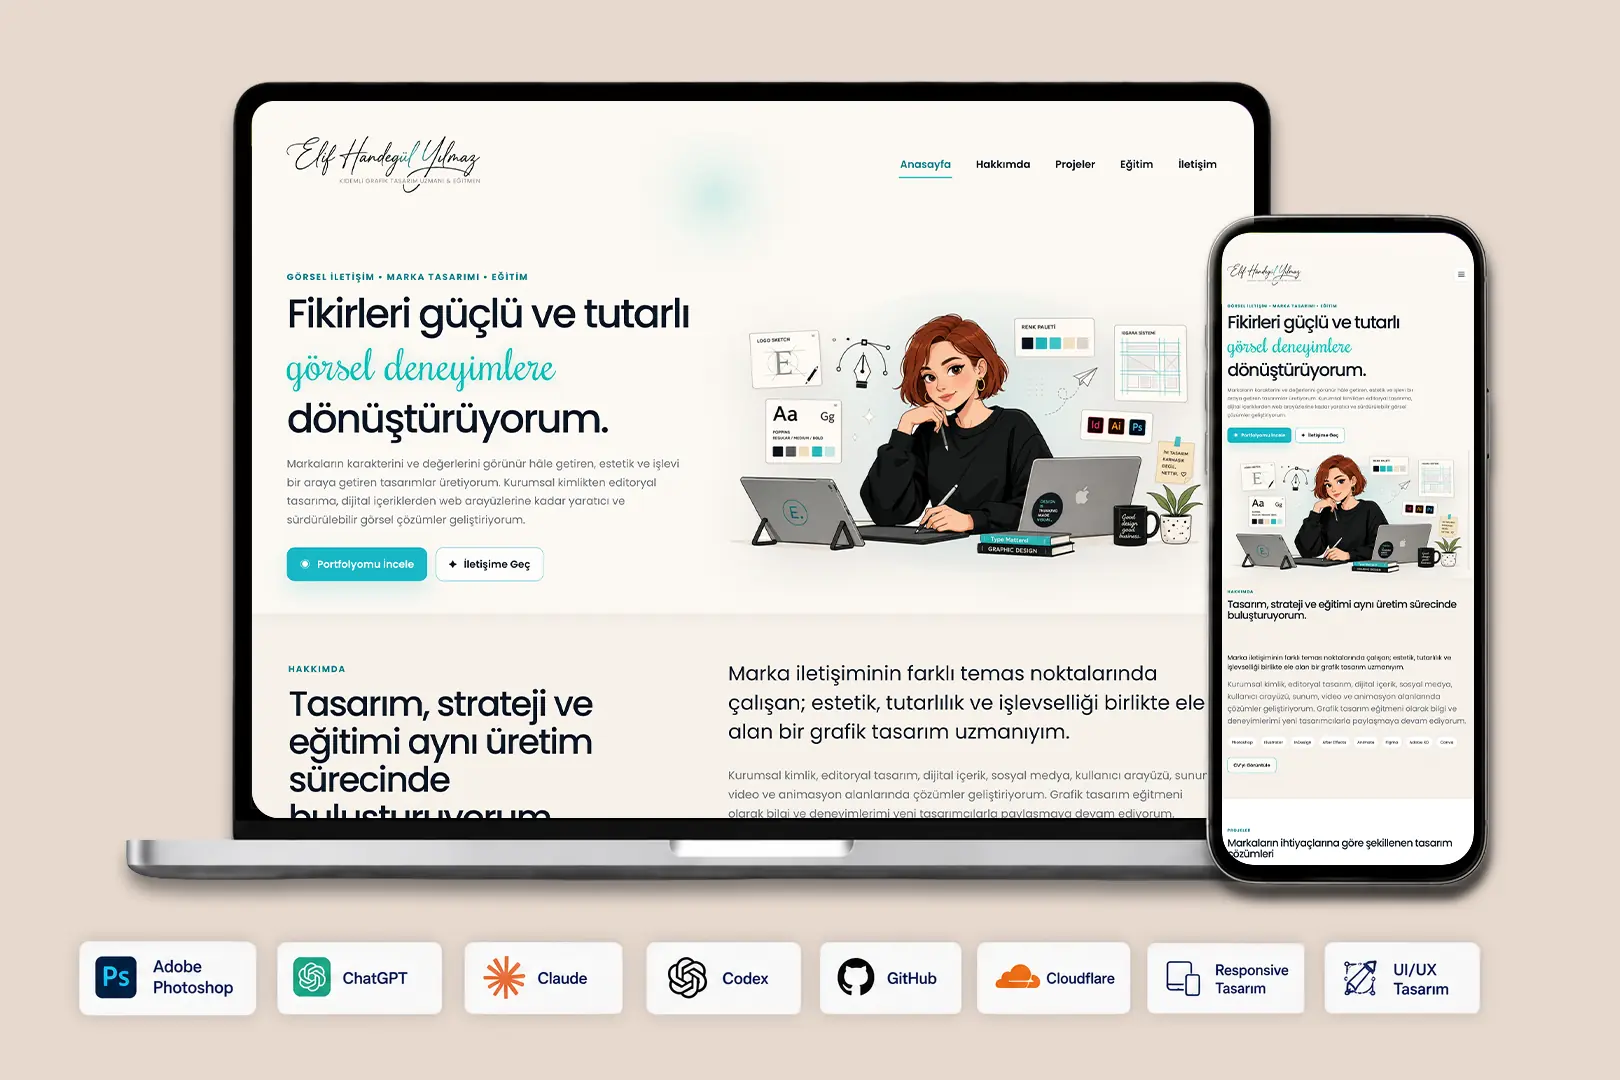
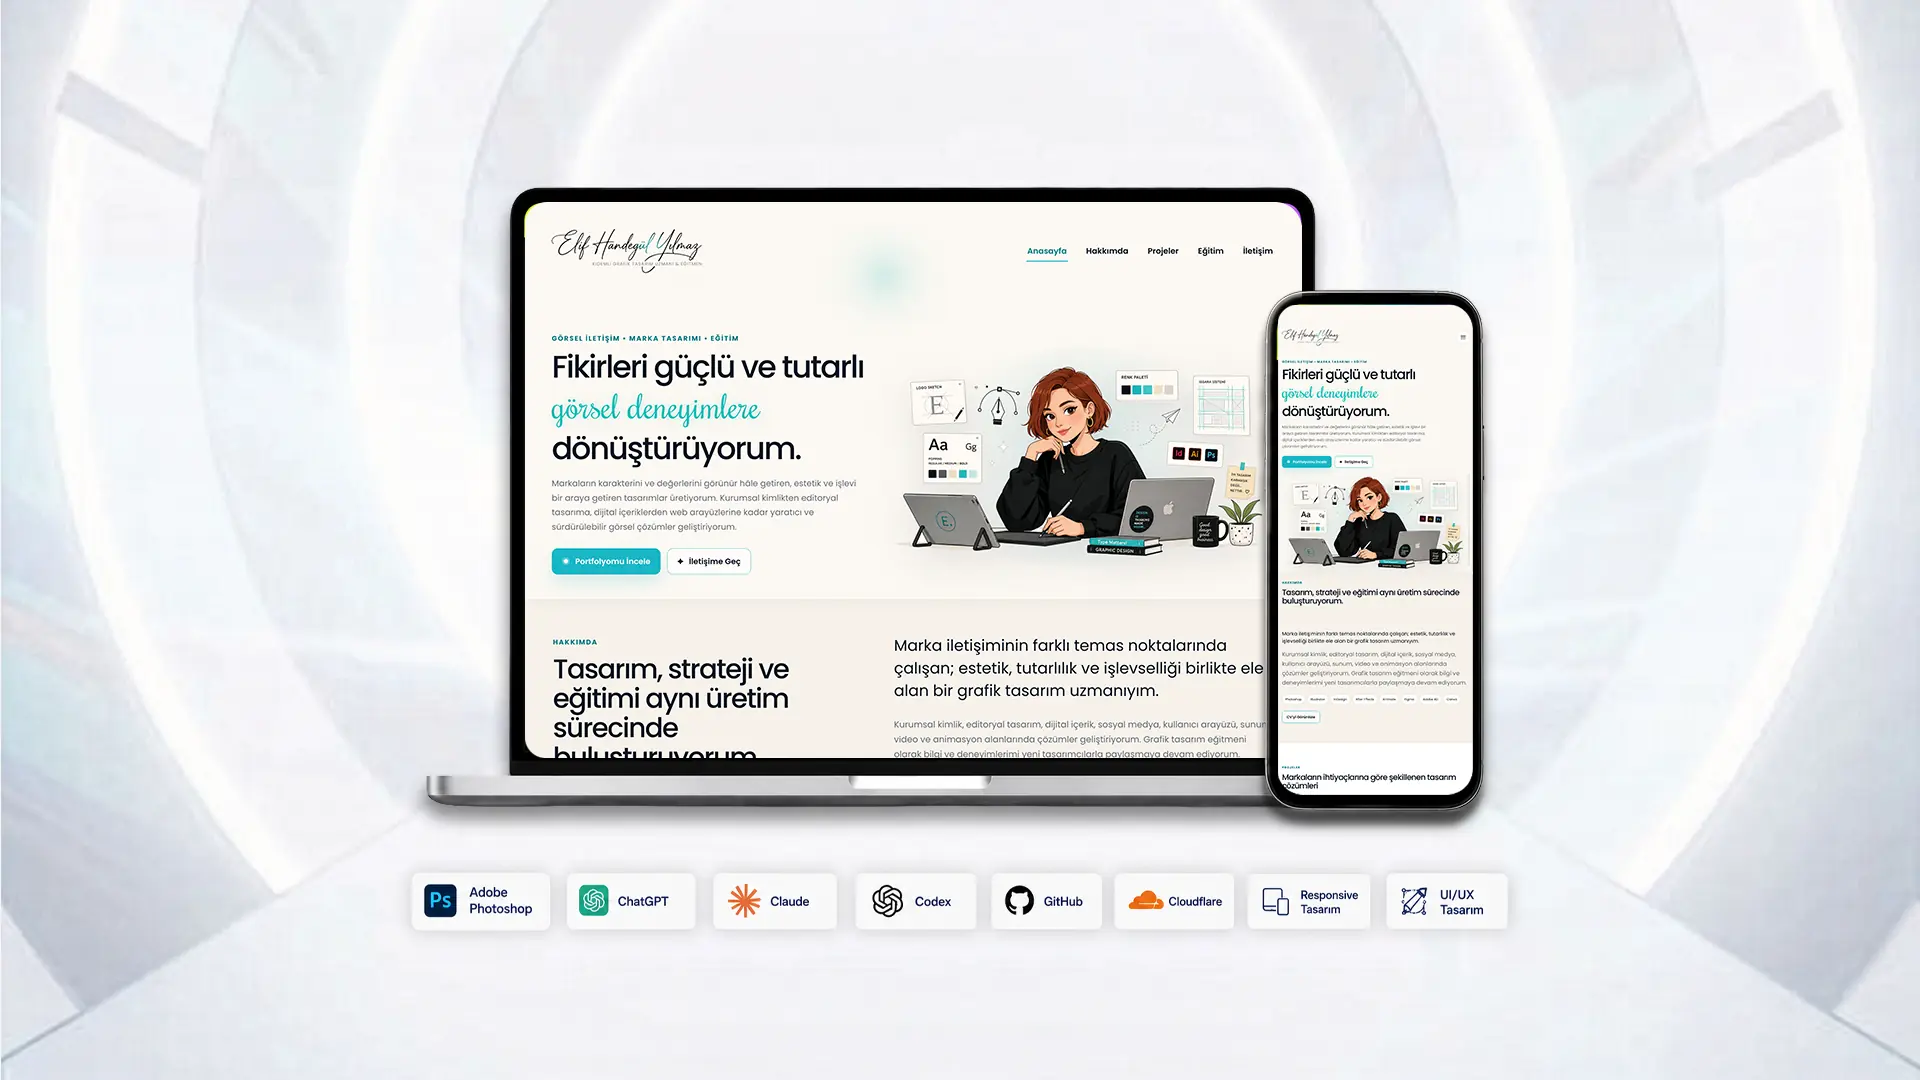
Web proje görsellerini 16:9 güncelle

diff --git a/elifhandeyilmaz-tam-site-paketi/assets/web-projects.js b/elifhandeyilmaz-tam-site-paketi/assets/web-projects.js
@@ -1,10 +1,10 @@
 (() => {
   const webProjects = [
-    { id:"forma-kutusu", title:"Forma Kutusu – Online Forma Satış Web Sitesi", type:"Web & Arayüz Tasarımı", description:"Forma Kutusu için, spor kulüpleri ve takımların forma modellerini inceleyebildiği, ürünleri kişiselleştirebildiği ve sipariş süreçlerini kolayca yönetebildiği modern bir e-ticaret web sitesi tasarladım. Koyu tema, canlı renk geçişleri ve güçlü tipografiyle markanın dinamik kimliğini yansıtan, masaüstü ve mobil cihazlarda yüksek performans sunan responsive bir kullanıcı deneyimi geliştirdim.", liveUrl:"https://www.formakutusu.com", roles:["UI/UX Tasarımı","Responsive Web Tasarımı","Görsel Tasarım Sistemi","İçerik Kurgusu ve Yazarlığı","Yapay Zekâ Destekli Web Geliştirme","Kod Geliştirme ve Optimizasyonu","GitHub Sürüm Yönetimi","Cloudflare Pages ile Yayınlama"], images:[{src:"assets/web-projects/formakutusu.webp",alt:"Forma Kutusu masaüstü ve mobil satış web sitesi sunumu"}] },
-    { id:"elif-handegul-yilmaz", title:"Elif Handegül Yılmaz – Kişisel Portfolyo ve Eğitim Web Sitesi", type:"Web & Arayüz Tasarımı", description:"Kişisel marka kimliğimi, grafik tasarım portfolyomu ve eğitim çalışmalarımı tek bir dijital platformda sunmak amacıyla bu web sitesini tasarlayıp geliştirdim. Görsel kimlikten kullanıcı deneyimine, karakter illüstrasyonlarından içerik yapısına kadar tüm tasarım dilini bütüncül bir yaklaşımla oluşturarak, masaüstü ve mobil cihazlarda tutarlı bir deneyim sunan responsive bir portfolyo platformu geliştirdim.", liveUrl:"https://www.elifhandeyilmaz.com", roles:["Kişisel Marka Kimliği Tasarımı","UI/UX Tasarımı","Responsive Web Tasarımı","Karakter ve Görsel Tasarımı","İçerik Stratejisi, Yazarlığı ve Düzenleme","Yapay Zekâ Destekli Web Geliştirme","Kod Geliştirme ve Optimizasyonu","GitHub Sürüm Yönetimi","Cloudflare Pages ile Yayınlama"], images:[{src:"assets/web-projects/elifhandeyilmazcom.webp",alt:"Elif Handegül Yılmaz kişisel portfolyo web sitesi masaüstü ve mobil sunumu"}] },
-    { id:"pilavyeri", title:"PilavYeri – Marka Kimliği ve Responsive Web Sitesi", type:"Web & Arayüz Tasarımı", description:"PilavYeri için logo tasarımından responsive web arayüzüne kadar bütüncül bir marka deneyimi oluşturdum. Sitenin görsel dili, masaüstü ve mobil uyarlamaları ile tüm metin içerikleri tarafımdan hazırlanarak WordPress üzerinde uygulandı.", liveUrl:"https://www.pilavyeri.com/", roles:["Logo ve Marka Kimliği Tasarımı","UI Tasarımı","WordPress Web Tasarımı","İçerik Yazarlığı"], images:[{src:"assets/web-projects/pilavyeri.webp",alt:"PilavYeri masaüstü ve mobil uyumlu web arayüzü sunumu"}] },
-    { id:"sigortaguru", title:"SigortaGuru – Sigorta Danışmanlığı Web Sitesi", type:"Web & Arayüz Tasarımı", description:"SigortaGuru için, sigorta hizmetlerinin kullanıcı dostu ve anlaşılır bir yapıda sunulduğu modern bir kurumsal web sitesi tasarladım. Responsive altyapısıyla masaüstü ve mobil cihazlarda tutarlı bir deneyim sunarken, teklif oluşturma süreçlerini kolaylaştıran kullanıcı odaklı sayfa kurgusu, sade arayüz ve güçlü yönlendirme alanlarıyla güven odaklı bir dijital platform geliştirdim.", liveUrl:"https://www.sigortaguru.com", roles:["Logo ve Marka Kimliği Tasarımı","UI/UX Tasarımı","Responsive Web Tasarımı","WordPress Geliştirme","Sayfa Kurgusu","İçerik Yazarlığı ve Düzenleme","Görsel Kompozisyon Tasarımı"], images:[{src:"assets/web-projects/sigortaguru.webp",alt:"SigortaGuru masaüstü ve mobil sigorta danışmanlığı web sitesi sunumu"}] },
-    { id:"baytekin-sigorta", title:"Baytekin Sigorta – Kurumsal Sigorta Web Sitesi", type:"Web & Arayüz Tasarımı", description:"Baytekin Sigorta için, sigorta ürünlerinin anlaşılır ve erişilebilir şekilde sunulduğu kurumsal bir web sitesi tasarladım. Responsive altyapısıyla masaüstü ve mobil cihazlarda tutarlı bir kullanıcı deneyimi sunarken, güven odaklı görsel dil, sade arayüz ve hızlı iletişim alanlarıyla kullanıcıların ihtiyaç duydukları hizmetlere kolayca ulaşabilecekleri modern bir dijital platform oluşturdum.", liveUrl:"https://www.baytekinsigorta.com.tr", roles:["Logo ve Marka Kimliği Tasarımı","UI/UX Tasarımı","Responsive Web Tasarımı","WordPress Geliştirme","Sayfa Kurgusu","İçerik Yazarlığı ve Düzenleme","Görsel Kompozisyon Tasarımı"], images:[{src:"assets/web-projects/baytekin-sigorta.webp",alt:"Baytekin Sigorta masaüstü ve mobil kurumsal web sitesi sunumu"}] }
+    { id:"forma-kutusu", title:"Forma Kutusu – Online Forma Satış Web Sitesi", type:"Web & Arayüz Tasarımı", description:"Forma Kutusu için, spor kulüpleri ve takımların forma modellerini inceleyebildiği, ürünleri kişiselleştirebildiği ve sipariş süreçlerini kolayca yönetebildiği modern bir e-ticaret web sitesi tasarladım. Koyu tema, canlı renk geçişleri ve güçlü tipografiyle markanın dinamik kimliğini yansıtan, masaüstü ve mobil cihazlarda yüksek performans sunan responsive bir kullanıcı deneyimi geliştirdim.", liveUrl:"https://www.formakutusu.com", roles:["UI/UX Tasarımı","Responsive Web Tasarımı","Görsel Tasarım Sistemi","İçerik Kurgusu ve Yazarlığı","Yapay Zekâ Destekli Web Geliştirme","Kod Geliştirme ve Optimizasyonu","GitHub Sürüm Yönetimi","Cloudflare Pages ile Yayınlama"], images:[{src:"assets/web-projects/formakutusu.webp?v=20260803-16x9-v1",alt:"Forma Kutusu masaüstü ve mobil satış web sitesi sunumu"}] },
+    { id:"elif-handegul-yilmaz", title:"Elif Handegül Yılmaz – Kişisel Portfolyo ve Eğitim Web Sitesi", type:"Web & Arayüz Tasarımı", description:"Kişisel marka kimliğimi, grafik tasarım portfolyomu ve eğitim çalışmalarımı tek bir dijital platformda sunmak amacıyla bu web sitesini tasarlayıp geliştirdim. Görsel kimlikten kullanıcı deneyimine, karakter illüstrasyonlarından içerik yapısına kadar tüm tasarım dilini bütüncül bir yaklaşımla oluşturarak, masaüstü ve mobil cihazlarda tutarlı bir deneyim sunan responsive bir portfolyo platformu geliştirdim.", liveUrl:"https://www.elifhandeyilmaz.com", roles:["Kişisel Marka Kimliği Tasarımı","UI/UX Tasarımı","Responsive Web Tasarımı","Karakter ve Görsel Tasarımı","İçerik Stratejisi, Yazarlığı ve Düzenleme","Yapay Zekâ Destekli Web Geliştirme","Kod Geliştirme ve Optimizasyonu","GitHub Sürüm Yönetimi","Cloudflare Pages ile Yayınlama"], images:[{src:"assets/web-projects/elifhandeyilmazcom.webp?v=20260803-16x9-v1",alt:"Elif Handegül Yılmaz kişisel portfolyo web sitesi masaüstü ve mobil sunumu"}] },
+    { id:"pilavyeri", title:"PilavYeri – Marka Kimliği ve Responsive Web Sitesi", type:"Web & Arayüz Tasarımı", description:"PilavYeri için logo tasarımından responsive web arayüzüne kadar bütüncül bir marka deneyimi oluşturdum. Sitenin görsel dili, masaüstü ve mobil uyarlamaları ile tüm metin içerikleri tarafımdan hazırlanarak WordPress üzerinde uygulandı.", liveUrl:"https://www.pilavyeri.com/", roles:["Logo ve Marka Kimliği Tasarımı","UI Tasarımı","WordPress Web Tasarımı","İçerik Yazarlığı"], images:[{src:"assets/web-projects/pilavyeri.webp?v=20260803-16x9-v1",alt:"PilavYeri masaüstü ve mobil uyumlu web arayüzü sunumu"}] },
+    { id:"sigortaguru", title:"SigortaGuru – Sigorta Danışmanlığı Web Sitesi", type:"Web & Arayüz Tasarımı", description:"SigortaGuru için, sigorta hizmetlerinin kullanıcı dostu ve anlaşılır bir yapıda sunulduğu modern bir kurumsal web sitesi tasarladım. Responsive altyapısıyla masaüstü ve mobil cihazlarda tutarlı bir deneyim sunarken, teklif oluşturma süreçlerini kolaylaştıran kullanıcı odaklı sayfa kurgusu, sade arayüz ve güçlü yönlendirme alanlarıyla güven odaklı bir dijital platform geliştirdim.", liveUrl:"https://www.sigortaguru.com", roles:["Logo ve Marka Kimliği Tasarımı","UI/UX Tasarımı","Responsive Web Tasarımı","WordPress Geliştirme","Sayfa Kurgusu","İçerik Yazarlığı ve Düzenleme","Görsel Kompozisyon Tasarımı"], images:[{src:"assets/web-projects/sigortaguru.webp?v=20260803-16x9-v1",alt:"SigortaGuru masaüstü ve mobil sigorta danışmanlığı web sitesi sunumu"}] },
+    { id:"baytekin-sigorta", title:"Baytekin Sigorta – Kurumsal Sigorta Web Sitesi", type:"Web & Arayüz Tasarımı", description:"Baytekin Sigorta için, sigorta ürünlerinin anlaşılır ve erişilebilir şekilde sunulduğu kurumsal bir web sitesi tasarladım. Responsive altyapısıyla masaüstü ve mobil cihazlarda tutarlı bir kullanıcı deneyimi sunarken, güven odaklı görsel dil, sade arayüz ve hızlı iletişim alanlarıyla kullanıcıların ihtiyaç duydukları hizmetlere kolayca ulaşabilecekleri modern bir dijital platform oluşturdum.", liveUrl:"https://www.baytekinsigorta.com.tr", roles:["Logo ve Marka Kimliği Tasarımı","UI/UX Tasarımı","Responsive Web Tasarımı","WordPress Geliştirme","Sayfa Kurgusu","İçerik Yazarlığı ve Düzenleme","Görsel Kompozisyon Tasarımı"], images:[{src:"assets/web-projects/baytekin-sigorta.webp?v=20260803-16x9-v1",alt:"Baytekin Sigorta masaüstü ve mobil kurumsal web sitesi sunumu"}] }
   ];
   let modal=null, activeProjectIndex=0, lastFocused=null, imageRequest=0;
   const escapeHtml=(value="")=>String(value).replace(/[&<>"']/g,c=>({"&":"&amp;","<":"&lt;",">":"&gt;",'"':"&quot;","'":"&#039;"})[c]);
